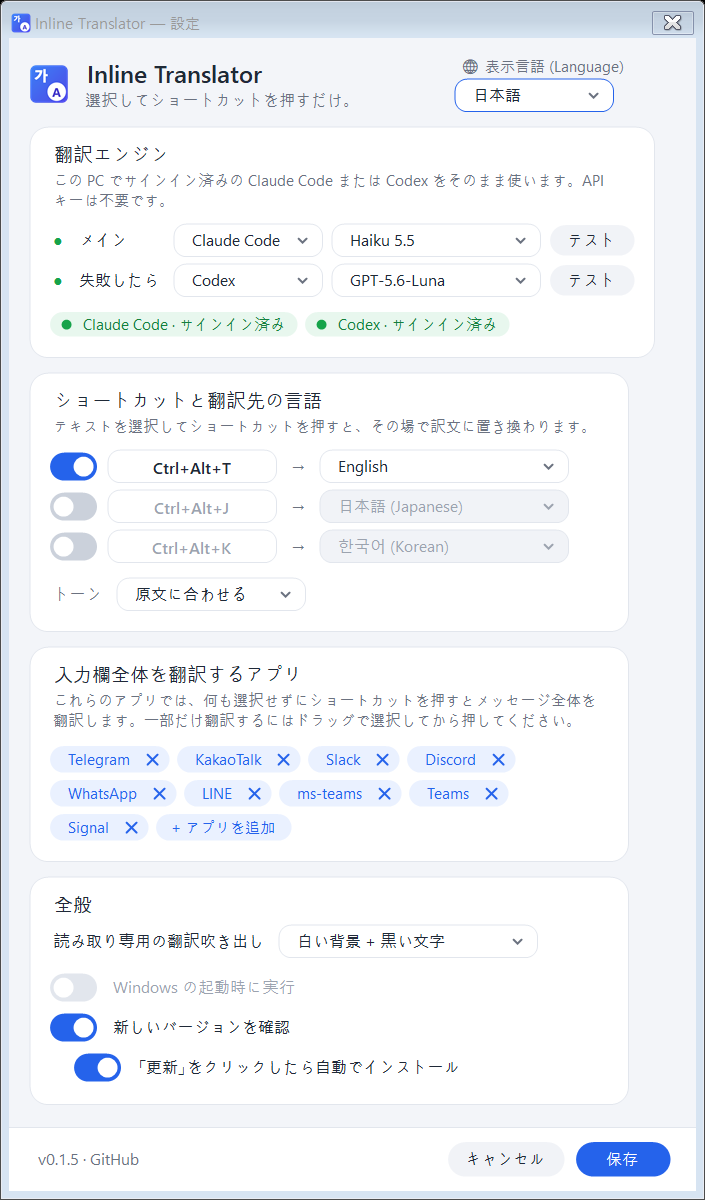
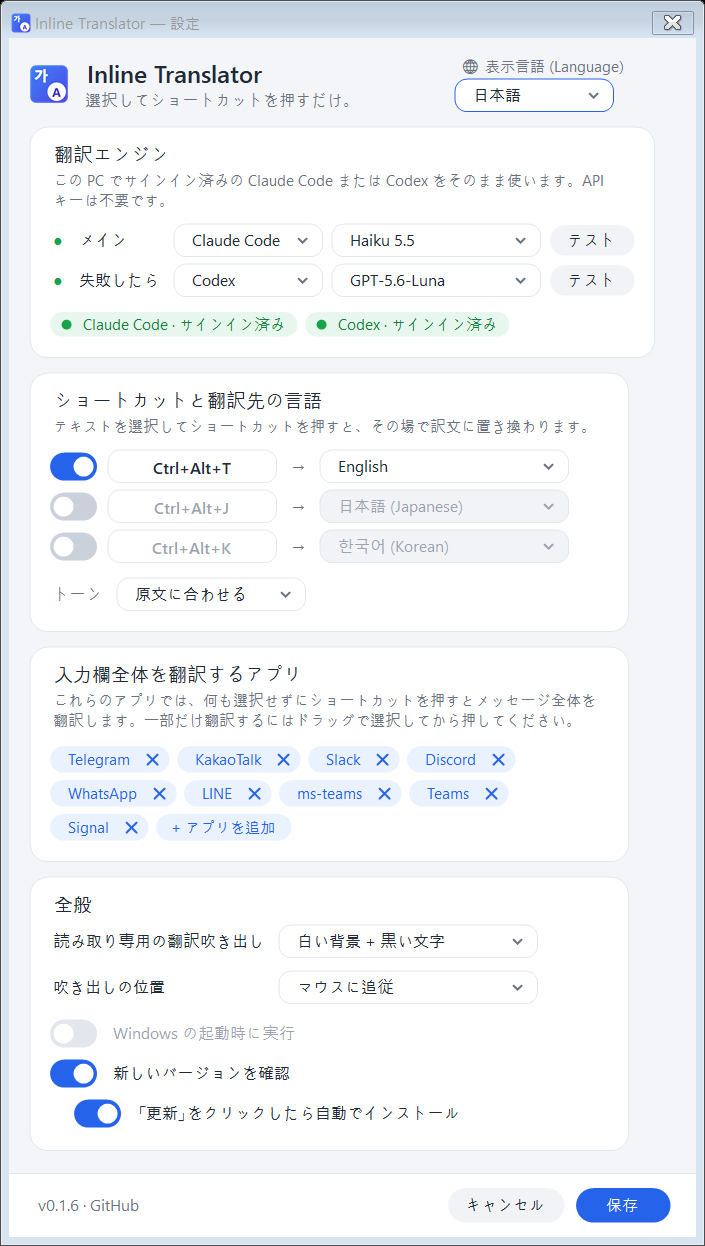
Let the read-only bubble follow the mouse or sit by the selection in Inline Translator 0.1.6

diff --git a/tests/InlineTranslator.Tests/Program.cs b/tests/InlineTranslator.Tests/Program.cs
@@ -96,6 +96,8 @@ internal static class Program
         Equal(new EngineChoice(Provider.Codex, "gpt-5.6-luna"), settings.Fallback);
         Check(settings.WholeInputApps.Contains("Telegram"), "Telegram translates the whole input");
         Check(settings.CheckForUpdates && settings.AutoInstallUpdates, "updates on by default");
+        Equal("mouse", settings.BubblePosition);
+        Equal("light", settings.BubbleTheme);
     }
 
     private static void NormalizeRepairs()
@@ -114,6 +116,7 @@ internal static class Program
             ],
             Tone = "angry",
             BubbleTheme = "neon",
+            BubblePosition = "orbit",
             WholeInputApps = ["Telegram.exe", "telegram", " Slack ", "bad|name", ""],
         }.Normalize();
 
@@ -126,6 +129,7 @@ internal static class Program
         Equal(new HotkeyPreset(false, "", "en"), settings.Presets[2]);
         Equal("natural", settings.Tone);
         Equal("light", settings.BubbleTheme);
+        Equal("mouse", settings.BubblePosition);
         Equal("Telegram,Slack", string.Join(",", settings.WholeInputApps));
 
         var models = new AppSettings
@@ -150,6 +154,7 @@ internal static class Program
             WholeInputApps = ["카카오톡", "Telegram"],
             Tone = "formal",
             BubbleTheme = "dark",
+            BubblePosition = "selection",
             CheckForUpdates = false,
         }.Normalize();
         SettingsStore.Save(path, settings);
@@ -160,6 +165,7 @@ internal static class Program
         Check(settings.WholeInputApps.SequenceEqual(loaded.WholeInputApps), "Unicode app names survive");
         Equal("formal", loaded.Tone);
         Equal("dark", loaded.BubbleTheme);
+        Equal("selection", loaded.BubblePosition);
         Check(!loaded.CheckForUpdates, "booleans survive");
         Equal(1, Directory.GetFiles(Path.GetDirectoryName(path)!).Length);
         Check(File.ReadAllText(path).Contains("\"Codex\""), "providers are stored as names");
@@ -411,7 +417,7 @@ internal static class Program
         Check(Parse("""{"tag_name":"v0.2.0","html_url":"https://github.com/a","assets":[{"name":"inline-translator-win-x64.zip","browser_download_url":"https://github.com/x"}]}""")!.PackageUrl is null, "no digest means no automatic install");
         Check(Parse("""{"tag_name":"v0.2.0","html_url":"https://evil.example/"}""") is null, "non-GitHub page rejected");
         Check(Parse("""{"tag_name":"latest","html_url":"https://github.com/a"}""") is null, "non-version tag rejected");
-        Equal(new Version(0, 1, 5), UpdateChecker.Current);
+        Equal(new Version(0, 1, 6), UpdateChecker.Current);
     }
 
     private static void UpdateInstall()

diff --git a/src/InlineTranslator/TranslationBubble.cs b/src/InlineTranslator/TranslationBubble.cs
@@ -169,9 +169,10 @@ internal sealed class TranslationBubble : Form
     private readonly Label header = new() { AutoSize = true, ForeColor = Ui.Muted, Font = Ui.Regular(8.5f), Margin = new Padding(0, 0, 0, 4), BackColor = Color.Transparent };
     private readonly Label body = new() { AutoSize = true, ForeColor = Ui.Ink, Font = Ui.Regular(11f), MaximumSize = new Size(440, 0), Margin = Padding.Empty, BackColor = Color.Transparent };
     private readonly Label hint = new() { AutoSize = true, ForeColor = Ui.Gray, Font = Ui.Regular(8f), Margin = new Padding(0, 8, 0, 0), BackColor = Color.Transparent };
-    private readonly System.Windows.Forms.Timer watcher = new() { Interval = 30 };
+    private readonly System.Windows.Forms.Timer watcher = new() { Interval = 15 };
     private readonly bool[] held = new bool[256];
     private Color border = Ui.Line;
+    private bool followMouse;
 
     public TranslationBubble()
     {
@@ -193,7 +194,11 @@ internal sealed class TranslationBubble : Form
         };
         stack.Controls.AddRange([header, body, hint]);
         Controls.Add(stack);
-        watcher.Tick += (_, _) => CloseOnInput();
+        watcher.Tick += (_, _) =>
+        {
+            CloseOnInput();
+            if (Visible && followMouse) MoveToMouse();
+        };
         Disposed += (_, _) => watcher.Dispose();
     }
 
@@ -223,8 +228,9 @@ internal sealed class TranslationBubble : Form
         e.Graphics.DrawRectangle(pen, 0, 0, Width - 1, Height - 1);
     }
 
-    public void ShowAt(Rectangle target, string title, string text, string closeHint, bool dark)
+    public void ShowAt(Rectangle target, string title, string text, string closeHint, bool dark, bool followMouse = false)
     {
+        this.followMouse = followMouse;
         border = dark ? Color.FromArgb(55, 55, 60) : Ui.Line;
         BackColor = Controls[0].BackColor = dark ? Color.FromArgb(24, 24, 27) : Color.White;
         body.ForeColor = dark ? Color.White : Color.FromArgb(17, 17, 17);
@@ -240,6 +246,13 @@ internal sealed class TranslationBubble : Form
         watcher.Start();
     }
 
+
+    private void MoveToMouse()
+    {
+        var mouse = Cursor.Position;
+        var next = BubbleLayout.Placement(new Rectangle(mouse.X + 12, mouse.Y, 1, 12), Size, Screen.FromPoint(mouse).WorkingArea, 8);
+        if (next != Location) Location = next;
+    }
 
     private void CloseOnInput()
     {

diff --git a/src/InlineTranslator/SettingsForm.cs b/src/InlineTranslator/SettingsForm.cs
@@ -16,6 +16,7 @@ internal sealed class SettingsForm : Form
     private readonly PillDropdown tone = new(190);
     private readonly PillDropdown uiLanguage = new(160);
     private readonly PillDropdown bubbleTheme = new(260);
+    private readonly PillDropdown bubblePosition = new(260);
     private readonly FlowLayoutPanel appChips = new()
     {
         AutoSize = true,
@@ -140,6 +141,12 @@ internal sealed class SettingsForm : Form
         bubbleTheme.SetOptions(new (object, string)[] { ("light", text.T("White background, black text")), ("dark", text.T("Black background, white text")) });
         bubbleRow.Controls.AddRange([Ui.Text(text.T("Read-only translation bubble"), Ui.Ink), bubbleTheme]);
         generalCard.Controls.Add(bubbleRow);
+        var positionRow = new FlowRow { Margin = new Padding(0, 0, 0, 6) };
+        bubblePosition.SetOptions(new (object, string)[] { ("mouse", text.T("Follows the mouse")), ("selection", text.T("Right above or below the selected text")) });
+        var positionLabel = Ui.Text(text.T("Bubble position"), Ui.Ink);
+        positionLabel.MinimumSize = new Size(bubbleRow.Controls[0].GetPreferredSize(Size.Empty).Width, 0);
+        positionRow.Controls.AddRange([positionLabel, bubblePosition]);
+        generalCard.Controls.Add(positionRow);
         generalCard.Controls.Add(startWithWindows);
         generalCard.Controls.Add(checkForUpdates);
         generalCard.Controls.Add(autoInstall);
@@ -285,6 +292,7 @@ internal sealed class SettingsForm : Form
         }
         tone.Select(settings.Tone);
         bubbleTheme.Select(settings.BubbleTheme);
+        bubblePosition.Select(settings.BubblePosition);
         uiLanguage.Select(settings.UiLanguage);
         wholeInputApps.AddRange(settings.WholeInputApps);
         ShowApps();
@@ -334,6 +342,7 @@ internal sealed class SettingsForm : Form
             row.Language.SelectedValue as string ?? "en")).ToArray(),
         Tone = tone.SelectedValue as string ?? "natural",
         BubbleTheme = bubbleTheme.SelectedValue as string ?? "light",
+        BubblePosition = bubblePosition.SelectedValue as string ?? "mouse",
         WholeInputApps = wholeInputApps.ToArray(),
         UiLanguage = uiLanguage.SelectedValue as string ?? "",
         CheckForUpdates = checkForUpdates.Checked,

diff --git a/src/InlineTranslator/TrayApp.cs b/src/InlineTranslator/TrayApp.cs
@@ -190,9 +190,10 @@ internal sealed class TrayApp : ApplicationContext
             }
 
             bool readOnly = mode == CaptureMode.Selection && FocusInspector.IsReadOnly(window);
-            Rectangle? selection = mode == CaptureMode.Selection ? SelectionLocator.Find(window) : null;
-            var anchor = ForegroundWindow.CaretOrCursor(window);
-            indicator.ShowNear(selection is { } box ? new Point(box.Left, box.Bottom) : anchor, text.T("Translating to {0}…", target.NativeName));
+            var mouse = Cursor.Position;
+            Rectangle? selection = settings.BubblePosition == "selection" && mode == CaptureMode.Selection ? SelectionLocator.Find(window) : null;
+            var near = selection ?? new Rectangle(mouse.X + 12, mouse.Y, 1, 12);
+            indicator.ShowNear(new Point(near.Left, near.Bottom), text.T("Translating to {0}…", target.NativeName));
             var result = await translator.TranslateAsync(settings, target, copied, CancellationToken.None);
             indicator.Hide();
             if (result.PrimaryError is { } primaryError)
@@ -205,8 +206,9 @@ internal sealed class TrayApp : ApplicationContext
 
             if (readOnly)
             {
-                bubble.ShowAt(selection ?? new Rectangle(anchor.X, anchor.Y - 18, 1, 20), $"{target.NativeName} · {result.Engine.DisplayName}", result.Text,
-                    text.T("Read-only text · press any key or click to close"), settings.BubbleTheme == "dark");
+                bubble.ShowAt(near, $"{target.NativeName} · {result.Engine.DisplayName}", result.Text,
+                    text.T("Read-only text · press any key or click to close"), settings.BubbleTheme == "dark",
+                    followMouse: settings.BubblePosition == "mouse");
                 return;
             }
 

diff --git a/src/InlineTranslator/Settings.cs b/src/InlineTranslator/Settings.cs
@@ -22,6 +22,7 @@ public sealed record AppSettings
     public static readonly string[] UiLanguages = ["ko", "en", "zh-CN", "ja"];
     public static readonly string[] Tones = ["natural", "casual", "formal"];
     public static readonly string[] BubbleThemes = ["light", "dark"];
+    public static readonly string[] BubblePositions = ["mouse", "selection"];
     public const string DefaultClaudeModel = "claude-haiku-5-5";
     public const string DefaultCodexModel = "gpt-5.6-luna";
 
@@ -42,6 +43,7 @@ public sealed record AppSettings
     public string Tone { get; init; } = "natural";
     public IReadOnlyList<string> WholeInputApps { get; init; } = DefaultWholeInputApps;
     public string BubbleTheme { get; init; } = "light";
+    public string BubblePosition { get; init; } = "mouse";
     public bool CheckForUpdates { get; init; } = true;
     public bool AutoInstallUpdates { get; init; } = true;
 
@@ -89,6 +91,7 @@ public sealed record AppSettings
             Presets = presets,
             Tone = Tones.Contains(Tone) ? Tone : "natural",
             BubbleTheme = BubbleThemes.Contains(BubbleTheme) ? BubbleTheme : "light",
+            BubblePosition = BubblePositions.Contains(BubblePosition) ? BubblePosition : "mouse",
             WholeInputApps = apps,
         };
     }

diff --git a/src/InlineTranslator/UiText.cs b/src/InlineTranslator/UiText.cs
@@ -129,5 +129,8 @@ public sealed class UiText
         ["Read-only translation bubble"] = ("읽기 전용 번역 말풍선", "只读文本翻译气泡", "読み取り専用の翻訳吹き出し"),
         ["White background, black text"] = ("흰 배경 + 검정 글자", "白底黑字", "白い背景 + 黒い文字"),
         ["Black background, white text"] = ("검정 배경 + 흰 글자", "黑底白字", "黒い背景 + 白い文字"),
+        ["Bubble position"] = ("말풍선 위치", "气泡位置", "吹き出しの位置"),
+        ["Follows the mouse"] = ("마우스를 따라다님", "跟随鼠标", "マウスに追従"),
+        ["Right above or below the selected text"] = ("선택한 글 바로 위·아래", "选中文本的正上方或正下方", "選択したテキストのすぐ上・下"),
     };
 }

diff --git a/README.ja.md b/README.ja.md
@@ -34,7 +34,7 @@
 - **19 言語** —— 英語、韓国語、日本語、中国語（簡体・繁体）、スペイン語、フランス語、ドイツ語、ポルトガル語、イタリア語、ロシア語、ベトナム語、タイ語、インドネシア語、アラビア語、ヒンディー語、トルコ語、オランダ語、ポーランド語。原文の言語は自動判定します。
 - **ショートカット 3 つ** —— たとえば `Ctrl+Alt+T` は英語、`Ctrl+Alt+J` は日本語。
 - **トーン** —— 原文に合わせる、カジュアル、丁寧。
-- **読み取り専用の文章は吹き出しで** —— 受信メッセージ、Web ページ、PDF など編集できない文章を選択してショートカットを押すと、訳文を小さな吹き出しで表示。何かキーを押すかクリックするとすぐ消えます。白背景・黒文字と黒背景・白文字から選べます。
+- **読み取り専用の文章は吹き出しで** —— 受信メッセージ、Web ページ、PDF など編集できない文章を選択してショートカットを押すと、訳文を小さな吹き出しで表示。何かキーを押すかクリックするとすぐ消えます。白背景・黒文字と黒背景・白文字から選べ、位置はマウスに追従（既定）か、選択したテキストのすぐ上・下に固定かを選べます。
 - **安全** —— 翻訳中に別のウィンドウへ移ったら貼り付けず、クリップボードにだけ入れます。元のクリップボードは元に戻します。
 - **記録しない** —— 訳文はファイルにも Windows のクリップボード履歴（`Win+V`）にも残りません。
 - **ワンクリック更新** —— 新しいバージョンが出ると、通知領域のメニューと設定に「更新」ボタンが表示され、押すとダウンロード・置き換え・再起動します。

diff --git a/README.md b/README.md
@@ -34,7 +34,7 @@
 - **19개 언어** — 영어, 한국어, 일본어, 중국어(간체·번체), 스페인어, 프랑스어, 독일어, 포르투갈어, 이탈리아어, 러시아어, 베트남어, 태국어, 인도네시아어, 아랍어, 힌디어, 튀르키예어, 네덜란드어, 폴란드어. 원문 언어는 자동으로 알아냅니다.
 - **단축키 3개** — 예를 들어 `Ctrl+Alt+T`는 영어, `Ctrl+Alt+J`는 일본어처럼 따로 지정합니다.
 - **말투 선택** — 원문 그대로, 편하게, 정중하게.
-- **읽기 전용 글은 말풍선으로** — 받은 메시지, 웹페이지 본문, PDF처럼 고칠 수 없는 글을 드래그하고 단축키를 누르면, 번역을 작은 말풍선으로 보여줍니다. 아무 키나 누르거나 클릭하면 바로 사라집니다. 흰 배경·검정 글자와 검정 배경·흰 글자 중에서 고를 수 있습니다.
+- **읽기 전용 글은 말풍선으로** — 받은 메시지, 웹페이지 본문, PDF처럼 고칠 수 없는 글을 드래그하고 단축키를 누르면, 번역을 작은 말풍선으로 보여줍니다. 아무 키나 누르거나 클릭하면 바로 사라집니다. 흰 배경·검정 글자와 검정 배경·흰 글자 중에서 고를 수 있고, 위치는 마우스를 따라다니게(기본) 하거나 선택한 글 바로 위·아래에 고정할 수 있습니다.
 - **안전하게** — 번역하는 동안 다른 창으로 옮기면 붙여 넣지 않고 클립보드에만 넣어 둡니다. 원래 클립보드 내용은 되돌려 놓습니다.
 - **기록 없음** — 번역한 글은 파일에도, Windows 클립보드 기록(`Win+V`)에도 남지 않습니다.
 - **원클릭 업데이트** — 새 버전이 나오면 알림 영역 메뉴와 설정 창에 `업데이트` 버튼이 뜹니다. 누르면 받아서 바꾸고 다시 실행합니다.

diff --git a/README.en.md b/README.en.md
@@ -34,7 +34,7 @@ Now it is **one hotkey, right where you are typing**. In a few seconds your text
 - **19 languages** — English, Korean, Japanese, Chinese (Simplified and Traditional), Spanish, French, German, Portuguese, Italian, Russian, Vietnamese, Thai, Indonesian, Arabic, Hindi, Turkish, Dutch and Polish. The source language is detected automatically.
 - **Three hotkeys** — for example `Ctrl+Alt+T` for English and `Ctrl+Alt+J` for Japanese.
 - **Tone** — match the original, casual, or polite.
-- **Read-only text pops up** — select text you cannot edit (a received message, a web page, a PDF) and press the hotkey: the translation appears in a small bubble that disappears on any key or click. Choose black-on-white or white-on-black.
+- **Read-only text pops up** — select text you cannot edit (a received message, a web page, a PDF) and press the hotkey: the translation appears in a small bubble that disappears on any key or click. Choose black-on-white or white-on-black, and whether it follows the mouse (default) or stays right above/below the selection.
 - **Safe by default** — if you switch windows while it is translating, the result goes to the clipboard instead of being pasted. Your previous clipboard is restored.
 - **Nothing recorded** — translated text is never written to disk or to Windows clipboard history (`Win+V`).
 - **One-click update** — when a new version is out, an `Update` button appears in the tray menu and Settings. Click it to download, replace and restart.

diff --git a/README.zh-CN.md b/README.zh-CN.md
@@ -34,7 +34,7 @@
 - **19 种语言** —— 英语、韩语、日语、中文（简体/繁体）、西班牙语、法语、德语、葡萄牙语、意大利语、俄语、越南语、泰语、印尼语、阿拉伯语、印地语、土耳其语、荷兰语、波兰语。自动识别原文语言。
 - **3 个快捷键** —— 例如 `Ctrl+Alt+T` 译成英语，`Ctrl+Alt+J` 译成日语。
 - **语气** —— 保持原文语气、随意、礼貌。
-- **只读文本弹出显示** —— 选中无法编辑的文字（收到的消息、网页正文、PDF）后按快捷键，译文会显示在小气泡中，按任意键或点击即消失。可选白底黑字或黑底白字。
+- **只读文本弹出显示** —— 选中无法编辑的文字（收到的消息、网页正文、PDF）后按快捷键，译文会显示在小气泡中，按任意键或点击即消失。可选白底黑字或黑底白字，位置可选跟随鼠标（默认）或固定在选中文本的正上方/正下方。
 - **安全** —— 翻译期间切换了窗口，结果只放入剪贴板而不粘贴；原剪贴板内容会被恢复。
 - **不留记录** —— 译文不会写入文件，也不会进入 Windows 剪贴板历史（`Win+V`）。
 - **一键更新** —— 有新版本时，托盘菜单和设置中会出现“更新”按钮，点击即可下载、替换并重启。
